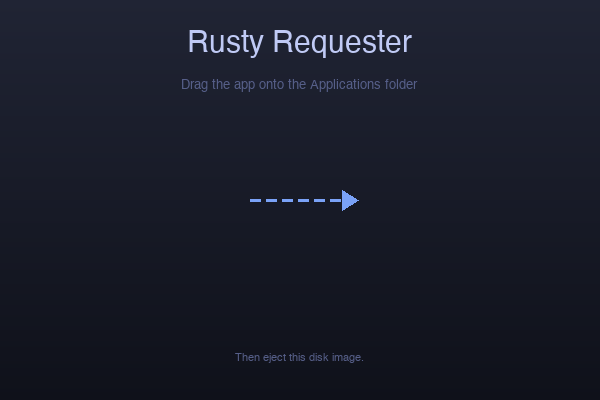
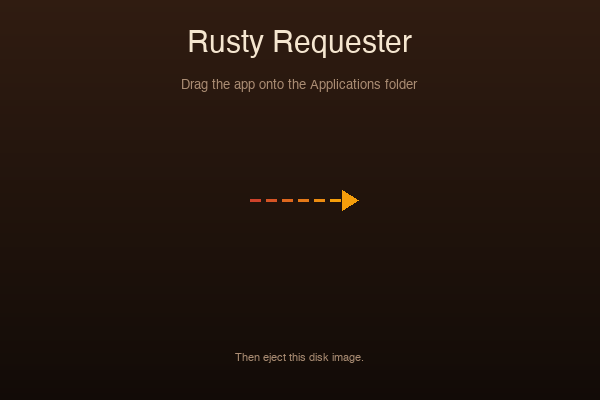
change UI to rusty theme

diff --git a/scripts/generate_icon.py b/scripts/generate_icon.py
@@ -1,8 +1,9 @@
 #!/usr/bin/env python3
 """Generate the Rusty Requester app icon as a PNG.
 
-Produces a 512x512 PNG at assets/icon.png. The icon is a rounded dark square
-(Tokyo Night palette) with a stylized "R" and an accent send-arrow underline.
+Produces a 512x512 PNG at assets/icon.png. Rounded square in oxidised-metal
+warm tones: a dark copper-brown background, a big rust-orange "R", and an
+amber send-arrow underneath to suggest "requester".
 """
 
 from pathlib import Path
@@ -10,13 +11,14 @@ from PIL import Image, ImageDraw, ImageFont
 
 SIZE = 512
 
-# Tokyo Night palette
-PANEL = (26, 29, 41, 255)
-ELEVATED = (36, 40, 59, 255)
-BORDER = (47, 53, 73, 255)
-ACCENT = (122, 162, 247, 255)
-GREEN = (158, 206, 106, 255)
-ORANGE = (224, 175, 104, 255)
+# Rust-forge palette
+PANEL_TOP = (58, 34, 20, 255)      # #3A2214 burnt copper highlight
+PANEL_BOT = (20, 12, 8, 255)       # #140C08 deep warm
+BORDER = (82, 57, 40, 255)         # #523928 warm bronze border
+RUST = (206, 66, 43, 255)          # #CE422B rust orange (the R)
+RUST_DARK = (130, 40, 22, 255)     # #822816 rust orange shadow
+AMBER = (245, 158, 11, 255)        # #F59E0B amber arrow
+CREAM = (245, 230, 208, 255)       # #F5E6D0 warm cream highlight
 
 FONT_CANDIDATES = [
     "/System/Library/Fonts/Helvetica.ttc",
@@ -62,20 +64,20 @@ def main() -> None:
     # Transparent base
     img = Image.new("RGBA", (SIZE, SIZE), (0, 0, 0, 0))
 
-    # Build a rounded-rectangle mask
+    # Rounded-rectangle mask
     mask = Image.new("L", (SIZE, SIZE), 0)
     ImageDraw.Draw(mask).rounded_rectangle(
         (0, 0, SIZE, SIZE), radius=SIZE // 7, fill=255
     )
 
-    # Gradient background clipped to the rounded mask
-    bg = Image.new("RGBA", (SIZE, SIZE), PANEL)
-    draw_vertical_gradient(bg, (30, 34, 50, 255), (22, 25, 37, 255))
+    # Warm copper gradient behind everything
+    bg = Image.new("RGBA", (SIZE, SIZE), PANEL_BOT)
+    draw_vertical_gradient(bg, PANEL_TOP, PANEL_BOT)
     img.paste(bg, (0, 0), mask)
 
     draw = ImageDraw.Draw(img)
 
-    # Inner border for a subtle bevel
+    # Inner bronze bevel
     inset = 6
     draw.rounded_rectangle(
         (inset, inset, SIZE - inset, SIZE - inset),
@@ -84,7 +86,7 @@ def main() -> None:
         width=3,
     )
 
-    # Centered bold "R"
+    # Big bold "R" in rust orange
     font = load_bold_font(int(SIZE * 0.58))
     text = "R"
     bbox = draw.textbbox((0, 0), text, font=font)
@@ -92,19 +94,19 @@ def main() -> None:
     th = bbox[3] - bbox[1]
     tx = (SIZE - tw) // 2 - bbox[0]
     ty = (SIZE - th) // 2 - bbox[1] - int(SIZE * 0.04)
-    # Drop shadow
-    draw.text((tx + 3, ty + 5), text, fill=(0, 0, 0, 120), font=font)
-    # Main glyph
-    draw.text((tx, ty), text, fill=ACCENT, font=font)
+    # Deep-rust shadow offset behind the glyph
+    draw.text((tx + 5, ty + 7), text, fill=RUST_DARK, font=font)
+    # Main glyph — bold rust orange
+    draw.text((tx, ty), text, fill=RUST, font=font)
 
-    # Accent "send" arrow beneath the R
+    # Amber "send" arrow beneath the R — the Requester half of the name
     arrow_y = int(SIZE * 0.82)
     arrow_start = int(SIZE * 0.32)
     arrow_end = int(SIZE * 0.68)
     line_width = max(SIZE // 50, 6)
     draw.line(
         [(arrow_start, arrow_y), (arrow_end, arrow_y)],
-        fill=GREEN,
+        fill=AMBER,
         width=line_width,
     )
     head = SIZE // 28
@@ -114,7 +116,7 @@ def main() -> None:
             (arrow_end - head // 2, arrow_y - head),
             (arrow_end - head // 2, arrow_y + head),
         ],
-        fill=GREEN,
+        fill=AMBER,
     )
 
     img.save(out_path, format="PNG")

diff --git a/src/theme.rs b/src/theme.rs
@@ -1,20 +1,23 @@
 use crate::model::HttpMethod;
 use eframe::egui;
 
-// ====== Tokyo-Night-inspired palette ======
-pub const C_BG: egui::Color32 = egui::Color32::from_rgb(15, 17, 26);
-pub const C_PANEL: egui::Color32 = egui::Color32::from_rgb(26, 29, 41);
-pub const C_PANEL_DARK: egui::Color32 = egui::Color32::from_rgb(12, 14, 20);
-pub const C_ELEVATED: egui::Color32 = egui::Color32::from_rgb(36, 40, 59);
-pub const C_BORDER: egui::Color32 = egui::Color32::from_rgb(47, 53, 73);
-pub const C_ACCENT: egui::Color32 = egui::Color32::from_rgb(122, 162, 247);
-pub const C_PURPLE: egui::Color32 = egui::Color32::from_rgb(187, 154, 247);
-pub const C_GREEN: egui::Color32 = egui::Color32::from_rgb(158, 206, 106);
-pub const C_ORANGE: egui::Color32 = egui::Color32::from_rgb(224, 175, 104);
-pub const C_PINK: egui::Color32 = egui::Color32::from_rgb(247, 118, 142);
-pub const C_RED: egui::Color32 = egui::Color32::from_rgb(247, 118, 142);
-pub const C_MUTED: egui::Color32 = egui::Color32::from_rgb(86, 95, 137);
-pub const C_TEXT: egui::Color32 = egui::Color32::from_rgb(192, 202, 245);
+// ====== Rust-forge palette ======
+// Warm, oxidised-metal tones that match the "Rusty" brand:
+// dark warm browns for surfaces, rust orange for the primary accent,
+// copper / amber / patina-green for method badges.
+pub const C_BG: egui::Color32 = egui::Color32::from_rgb(24, 15, 10);        // #180F0A deep warm
+pub const C_PANEL: egui::Color32 = egui::Color32::from_rgb(40, 26, 18);     // #281A12 warm dark panel
+pub const C_PANEL_DARK: egui::Color32 = egui::Color32::from_rgb(16, 10, 7); // #100A07 deepest
+pub const C_ELEVATED: egui::Color32 = egui::Color32::from_rgb(58, 39, 27);  // #3A271B hover / tab row
+pub const C_BORDER: egui::Color32 = egui::Color32::from_rgb(82, 57, 40);    // #523928 warm border
+pub const C_ACCENT: egui::Color32 = egui::Color32::from_rgb(206, 66, 43);   // #CE422B rust orange (brand)
+pub const C_PURPLE: egui::Color32 = egui::Color32::from_rgb(186, 120, 80);  // #BA7850 burnt sienna — PATCH
+pub const C_GREEN: egui::Color32 = egui::Color32::from_rgb(134, 172, 113); // #86AC71 patina green — GET
+pub const C_ORANGE: egui::Color32 = egui::Color32::from_rgb(245, 158, 11); // #F59E0B amber gold — POST
+pub const C_PINK: egui::Color32 = egui::Color32::from_rgb(183, 65, 14);    // #B7410E deep rust — PUT
+pub const C_RED: egui::Color32 = egui::Color32::from_rgb(220, 38, 38);     // #DC2626 crimson — DELETE / errors
+pub const C_MUTED: egui::Color32 = egui::Color32::from_rgb(138, 115, 95);  // #8A735F warm muted text
+pub const C_TEXT: egui::Color32 = egui::Color32::from_rgb(245, 230, 208); // #F5E6D0 warm cream
 
 pub fn pill_text_color(bg: egui::Color32) -> egui::Color32 {
     let r = bg.r() as f32 / 255.0;
@@ -30,12 +33,12 @@ pub fn pill_text_color(bg: egui::Color32) -> egui::Color32 {
 
 pub fn method_color(m: &HttpMethod) -> egui::Color32 {
     match m {
-        HttpMethod::GET => C_GREEN,
-        HttpMethod::POST => C_ORANGE,
-        HttpMethod::PUT => C_ACCENT,
-        HttpMethod::DELETE => C_PINK,
-        HttpMethod::PATCH => C_PURPLE,
-        _ => C_MUTED,
+        HttpMethod::GET => C_GREEN,   // patina green — safe read
+        HttpMethod::POST => C_ORANGE, // amber gold — create
+        HttpMethod::PUT => C_PINK,    // deep rust — update
+        HttpMethod::DELETE => C_RED,  // crimson — destructive
+        HttpMethod::PATCH => C_PURPLE, // burnt sienna — partial
+        _ => C_MUTED,                 // warm grey — HEAD / OPTIONS
     }
 }
 

diff --git a/scripts/generate_dmg_bg.py b/scripts/generate_dmg_bg.py
@@ -16,11 +16,13 @@ from pathlib import Path
 from PIL import Image, ImageDraw, ImageFont
 
 W, H = 600, 400
-GRAD_TOP = (32, 36, 52, 255)
-GRAD_BOT = (15, 17, 26, 255)
-ACCENT = (122, 162, 247, 255)
-TEXT = (192, 202, 245, 255)
-MUTED = (86, 95, 137, 255)
+# Rust-forge palette — warm coppers + rust orange.
+GRAD_TOP = (48, 28, 17, 255)       # #301C11 warm copper top
+GRAD_BOT = (18, 11, 7, 255)        # #120B07 deep warm bottom
+ACCENT = (206, 66, 43, 255)        # #CE422B rust orange
+AMBER = (245, 158, 11, 255)        # #F59E0B amber arrow tip
+TEXT = (245, 230, 208, 255)        # #F5E6D0 warm cream title
+MUTED = (170, 140, 115, 255)       # #AA8C73 warm muted subtitle
 
 FONT_CANDIDATES = [
     "/System/Library/Fonts/Helvetica.ttc",
@@ -74,22 +76,30 @@ def main() -> None:
     draw_centered(draw, "Drag the app onto the Applications folder",
                   78, load_font(13), MUTED)
 
-    # Dashed arrow between icon slots.
+    # Dashed arrow between icon slots — starts rust orange, tip amber.
     arrow_y = 200
     arrow_start = 250
     arrow_end = 348
     dash_w, gap = 10, 6
     x = arrow_start
+    idx = 0
+    n_dashes = max(1, (arrow_end - arrow_start) // (dash_w + gap))
     while x + dash_w <= arrow_end - 4:
+        # lerp from rust orange → amber across the dashes
+        t = idx / max(n_dashes - 1, 1)
+        r = round(ACCENT[0] * (1 - t) + AMBER[0] * t)
+        g = round(ACCENT[1] * (1 - t) + AMBER[1] * t)
+        b = round(ACCENT[2] * (1 - t) + AMBER[2] * t)
         draw.line([(x, arrow_y), (x + dash_w, arrow_y)],
-                  fill=ACCENT, width=3)
+                  fill=(r, g, b, 255), width=3)
         x += dash_w + gap
+        idx += 1
     head = 10
     draw.polygon([
         (arrow_end + head, arrow_y),
         (arrow_end - head + 4, arrow_y - head),
         (arrow_end - head + 4, arrow_y + head),
-    ], fill=ACCENT)
+    ], fill=AMBER)
 
     # Bottom hint
     draw_centered(draw, "Then eject this disk image.",

diff --git a/readme.md b/readme.md
@@ -14,7 +14,7 @@ Vibe-coded because I got tired of Postman's bloat and cloud sync I never wanted,
 ### Core
 - 🚀 **Truly native** — Rust + `egui`, no Electron, no Chromium
 - 💾 **Fully offline** — all data lives in one local JSON file, no cloud sync, no telemetry
-- 🎨 **Tokyo-Night-inspired dark UI** with colored HTTP-method pills and underlined tabs
+- 🎨 **Rust-forge dark UI** — warm copper / rust-orange / amber palette with colored HTTP-method pills and underlined tabs
 - 🍎 Builds for Apple Silicon, Intel Mac, Linux, and Windows
 
 ### Request building
@@ -247,14 +247,18 @@ Back it up, version-control it, or hand it to a teammate. It's just JSON.
 
 ### HTTP method pills
 
-Each request row shows a compact colored pill with the method:
+Each request row / tab shows a compact colored pill with the method,
+matching the rust-forge palette:
 
-- 🟢 **GET** — green
-- 🟠 **POST** — orange
-- 🔵 **PUT** — blue (accent)
-- 🩷 **DELETE** — pink
-- 🟣 **PATCH** — purple
-- ⚪ **HEAD / OPTIONS** — muted
+- 🟢 **GET** — patina green (`#86AC71`)
+- 🟠 **POST** — amber gold (`#F59E0B`)
+- 🟧 **PUT** — deep rust (`#B7410E`)
+- 🔴 **DELETE** — crimson (`#DC2626`)
+- 🟤 **PATCH** — burnt sienna (`#BA7850`)
+- ⚪ **HEAD / OPTIONS** — warm muted (`#8A735F`)
+
+The primary UI accent (selected tab, Send button, focus ring) is the brand
+**rust orange** `#CE422B`.
 
 ### Status code colors
 
@@ -285,7 +289,7 @@ Source layout:
 src/
   main.rs       # ApiClient state + UI rendering + main()
   model.rs      # Data types (Request, KvRow, Auth, HttpMethod, Folder, ...)
-  theme.rs      # Tokyo-Night color constants + global egui style
+  theme.rs      # Rust-forge color constants + global egui style
   widgets.rs    # Reusable widgets (kv_table, tab pill, paint_x, ...)
   snippet.rs    # Code-snippet generators (cURL, Python, JS, HTTPie)
   icon.rs      # App icon loading (texture + window icon)
